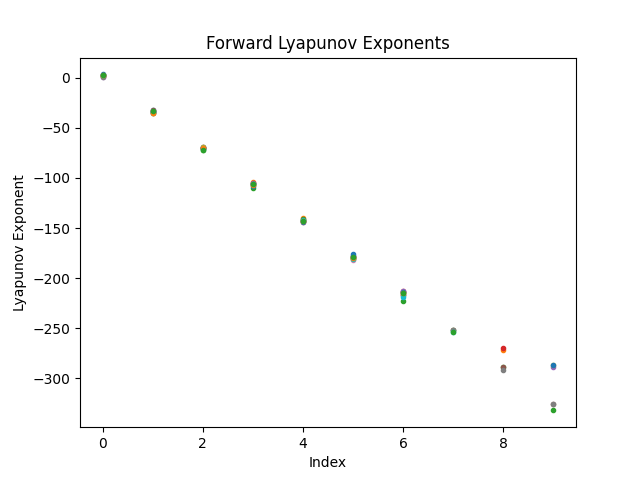
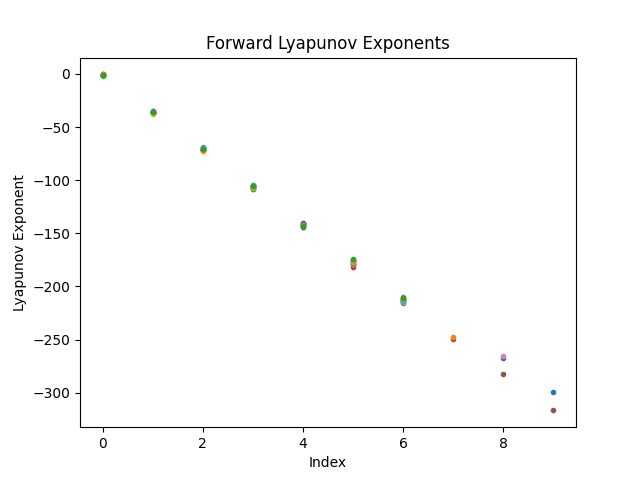
.

diff --git a/code/nn/main.py b/code/nn/main.py
@@ -13,7 +13,7 @@ def sigmoid(x):
 
 
 def sigmoid_grad(x):
-    return np.dot(sigmoid(x), (1 - sigmoid(x)))
+    return np.diag(sigmoid(x) * (1 - sigmoid(x)))
 
 
 def softmax(x):
@@ -169,29 +169,30 @@ if __name__ == "__main__":
         D_forward = []
         D_backward = []
 
-        v0 = np.random.randn(784)
-        v1 = np.dot(v0, dz_dx)
-        v2 = np.dot(v1, dy_dz)
+        v0 = Q0
+        v1 = np.dot(dz_dx.T, v0)
+        v2 = np.dot(dy_dz.T, v1)
 
-        nu_2 = np.random.randn(10)
-        nu_1 = np.dot(nu_2, dy_dz.T)
-        nu_0 = np.dot(nu_1, dz_dx.T)
+        Q2 = np.linalg.qr(np.random.randn(10, 10))[0]
+
+        nu_2 = Q2
+        nu_1 = np.dot(dy_dz, nu_2)
+        nu_0 = np.dot(dz_dx, nu_1)
 
         # Forward - 1st time step - v0 to v1
-        _W1 = np.zeros((50, 10))
+        _W1 = np.zeros((784, 10))
         for j in range(10):
             w0j = Q0[:, j]
-            w1j = np.dot(v0, w0j)
+            w1j = np.dot(v0[:,j], w0j)
             _W1[:, j] = w1j
         Q1, R1 = np.linalg.qr(_W1)
         D_forward.append(np.diag(R1))
 
         # Forward - 2nd time step - v1 to v2
-        v2 = np.dot(v1, dy_dz)
         _W2 = np.zeros((10, 10))
         for j in range(10):
             w1j = Q1[:50, j]
-            w2j = np.dot(v1, w1j)
+            w2j = np.dot(v1[:,j], w1j)
             _W2[:, j] = w2j
         Q2, R2 = np.linalg.qr(_W2)
         D_forward.append(np.diag(R2))
@@ -200,21 +201,19 @@ if __name__ == "__main__":
         dy = np.random.randn(10)
 
         # Backward - 2nd time step - nu_2 to nu_1
-        nu_1 = np.dot(nu_2, dy_dz.T)
         _W2 = np.zeros((50, 10))
         for j in range(10):
             w2j = Q2[:, j]
-            w1j = np.dot(nu_2, w2j)
+            w1j = np.dot(nu_2[:, j], w2j)
             _W2[:, j] = w1j
         Q1, R1 = np.linalg.qr(_W2)
         D_backward.append(np.diag(R1))
 
         # Backward - 1st time step - nu_1 to nu_0
-        nu_0 = np.dot(nu_1, dz_dx.T)
         _W1 = np.zeros((784, 10))
         for j in range(10):
             w1j = Q1[:, j]
-            w0j = np.dot(nu_1, w1j)
+            w0j = np.dot(nu_1[:, j], w1j)
             _W1[:, j] = w0j
         Q0, R0 = np.linalg.qr(_W1)
         D_backward.append(np.diag(R0))
